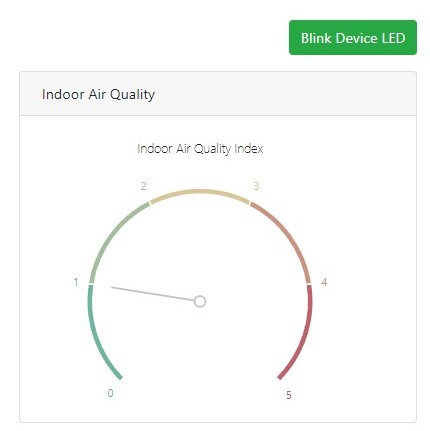
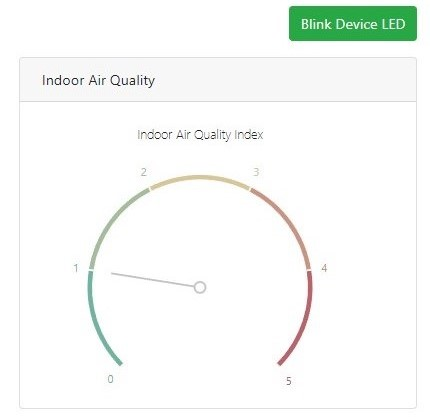
updated project gif for higher resolution

diff --git a/src/data.js b/src/data.js
@@ -10,7 +10,7 @@ export const projects = [
     title: "HealthIO Device",
     subtitle: "C and JavaScript",
     description:
-      "Air quality sensing device from New Age Micro, LLC. Programmed multiple webpages using HTML, JS, and JQuery and sent data between it and the device. Fixed data transfers, overlarge byte sizes, and incorrect sensor calibrations. https://www.newagemicro.com/products /total-health-io/",
+      "Air quality sensing device from New Age Micro, LLC. Programmed multiple webpages using HTML, JS, and JQuery and sent data between it and the device. Debugged data transfers, data leaks, overlarge byte sizes, and incorrect sensor calibrations. See at https://www.newagemicro.com/",
     image: "./projects/healthio/healthio.gif",
   },
   {

diff --git a/src/pages/Contact.js b/src/pages/Contact.js
@@ -39,7 +39,7 @@ export default function Contact() {
             src="https://www.google.com/maps/d/u/1/embed?mid=1Il24RrLJjdHtiBO83tYIVtOdawE&hl=en&ehbc=2E312F"
           />
           <div className="bg-stone-200 relative flex flex-wrap py-6 rounded shadow-md">
-            <div className="lg:w-1/2 px-6">
+            <div className="lg:w px-6">
               <h2 className="title-font font-semibold text-stone-600 tracking-widest text-xs">
                 ADDRESS
               </h2>
